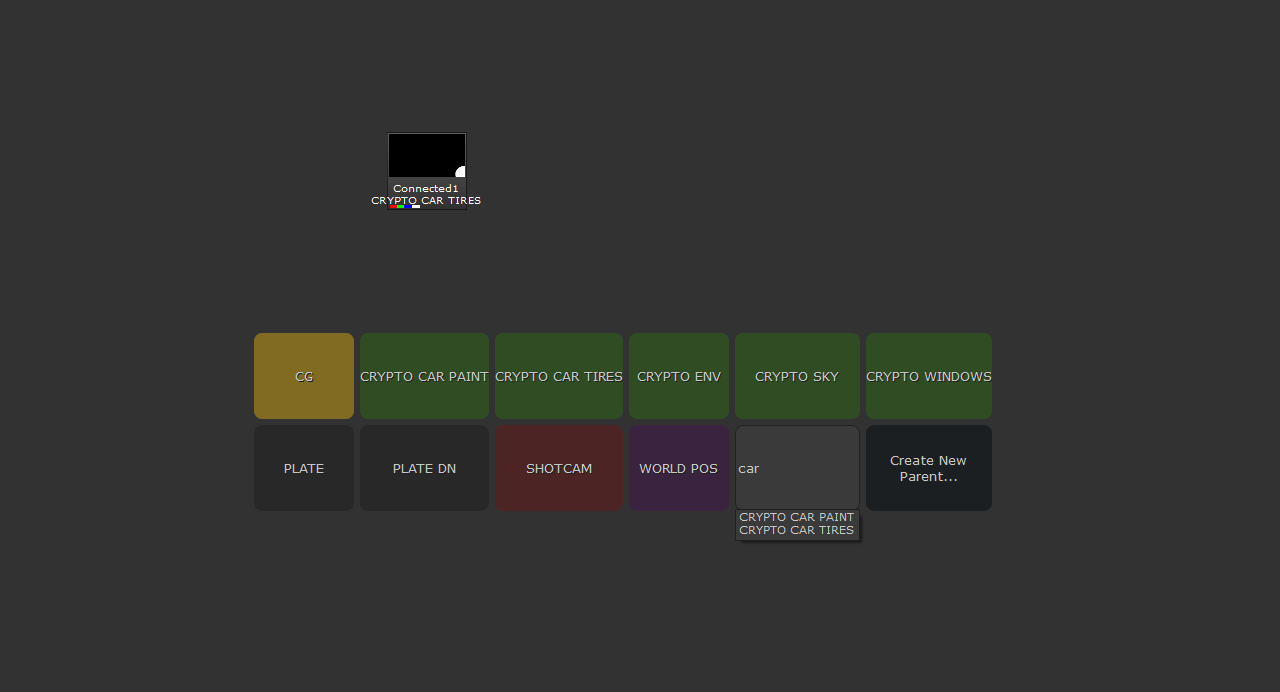
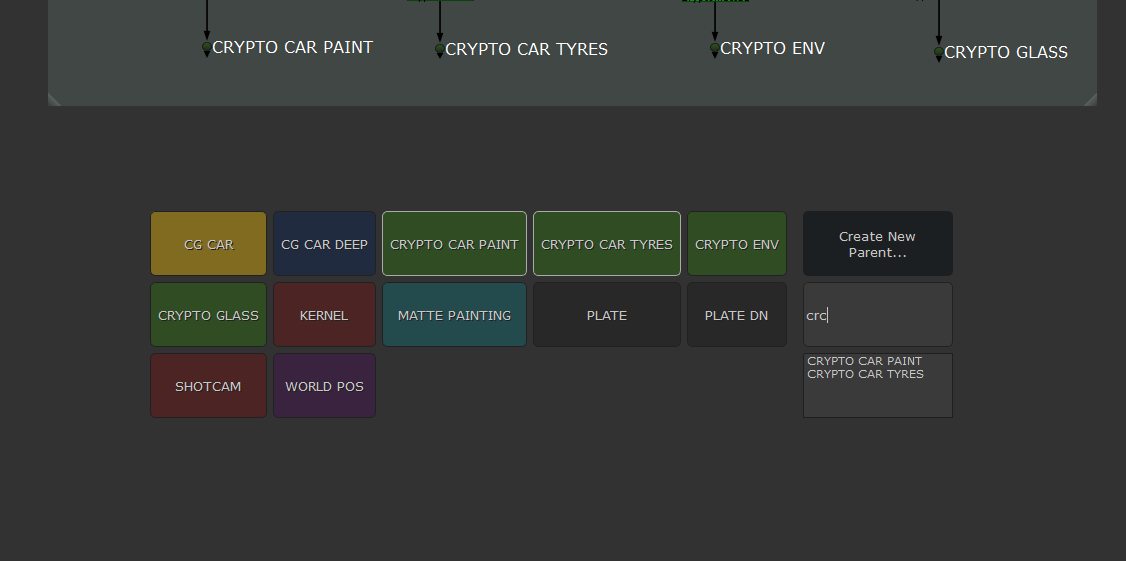
fast Parent creation, readme.md

diff --git a/labelConnector.py b/labelConnector.py
@@ -5,12 +5,14 @@ Big thanks also to Falk Hofmann
 
 Provides context-based UI helpers to setup and navigate Node Connections in Nuke.
 
-UI Shortcuts
+UI SHORTCUTS
 
 Click:          Create connection
 Shift-Click:    Jumps directly to Connector
 Alt-Click:      Opens Connector Settings (same like having the parent selected while hitting the shortcut)
 Ctrl:           Creates Parent (same like the UI button, just to make it faster accessible)
+
+SEE INCLUDED MENU.PY FOR DISABLING/ENABLING POSTAGESTAMPS :)
 
 """
 
@@ -96,6 +98,7 @@ class ConnectorButton(QtGuiWidgets.QPushButton):
 
     def enterEvent(self, event):
         """Change name with modifiers when mouse enters button."""
+
         keyModifier = QtGuiWidgets.QApplication.keyboardModifiers()
 
         if keyModifier == QtCore.Qt.ShiftModifier:
@@ -108,6 +111,7 @@ class ConnectorButton(QtGuiWidgets.QPushButton):
 
     def leaveEvent(self, event):
         """Change reset name when mouse leaves button."""
+
         self.setTextDefault()
         self.entered = False
 
@@ -410,6 +414,7 @@ class LabelConnector(QtGuiWidgets.QWidget):
 
     def keyPressEvent(self, event):
         """Catch key strokes, also to update highlighting of buttons."""
+
         if event.key() == QtCore.Qt.Key_Escape:
             self.close()
             return
@@ -478,6 +483,7 @@ class LabelConnector(QtGuiWidgets.QWidget):
 
     def clicked(self):
         """Clicking actions based on pressed Modifier Keys"""
+
         keyModifier = QtGuiWidgets.QApplication.keyboardModifiers()
 
         if keyModifier == QtCore.Qt.ShiftModifier:
@@ -500,16 +506,19 @@ class LabelConnector(QtGuiWidgets.QWidget):
 
     def clickedJump(self):
         """Click on Jump To Parent"""
+
         jumpKeepingPreviousSelection(self.node.input(0))
         self.close()
 
     def forceConnect(self):
         """Click on Re-Connect"""
+
         self.close()
         _forceShowUI(self.node, self.dots)
 
     def setColor(self):
         """Click on Color Button"""
+
         color = self.sender().interfaceColor
 
         if color == BUTTON_REGULAR_COLOR:
@@ -529,9 +538,10 @@ class LabelConnector(QtGuiWidgets.QWidget):
 
     def setupConnector(self):
         """Click on create or rename Parent"""
+
         self.close()
         if self.uiType == UIType.UI_DEFAULT:
-            if self.hasInputField:
+            if self.hasInputFieldAndText():
                 makeConnector(self.node, self.input.text())
 
             else:
@@ -540,13 +550,24 @@ class LabelConnector(QtGuiWidgets.QWidget):
         elif self.uiType == UIType.UI_CONNECTORONLY:
             _showNamingUI(self.node, self.node.knob('label').getValue())
 
+    def hasInputFieldAndText(self):
+        """Returns bool if current UI has a textinput and some userinput is provided"""
+
+        if self.hasInputField:
+            if self.input.text().strip(" "):
+                return True
+
+        return False
+
     def selectColor(self):
         """Click on Color Menu"""
+
         self.close()
         _showColorSelectionUI(self.selectedConnectors)
 
     def selectChildren(self):
         """Click on Show all Connections"""
+
         for i in nuke.selectedNodes():
             i.setSelected(False)
 
@@ -558,6 +579,7 @@ class LabelConnector(QtGuiWidgets.QWidget):
 
     def lineEnter(self):
         """After pressing Enter or Tab"""
+
         if not self.hasInputField:
             return
 
@@ -577,8 +599,8 @@ class LabelConnector(QtGuiWidgets.QWidget):
                     connectDot = dot
                     break
 
-            if not connectDot:
-                for dot in self.dots and self.input.filteredDotNameList:
+            if not connectDot and self.input.filteredDotNameList:
+                for dot in self.dots:
                     if self.input.filteredDotNameList[0] == dot.knob('label').getValue().upper():
                         connectDot = dot
                         break
@@ -609,6 +631,7 @@ class LabelConnector(QtGuiWidgets.QWidget):
 
     def focusNextPrevChild(self, next):
         """overriding this, to be able to use TAB as ENTER, like the Nuke Node Menu"""
+
         return False
 
 
@@ -761,9 +784,8 @@ def getAllConnectorDots():
 
 
 def getAllConnectorDotsLabels():
-    """
-    returns a list with all currently used labels
-    """
+    """returns a list with all currently used labels"""
+
     connectorDotsLabels = list()
 
     for dot in nuke.allNodes("Dot"):
@@ -774,9 +796,8 @@ def getAllConnectorDotsLabels():
 
 
 def isConnectingAndConnectedCorrectly(node):
-    """
-    returns if the node is connected to the correct parent.
-    """
+    """returns if the node is connected to the correct parent."""
+
     if not node.input(0):
         return False
     return node.knob('label').getValue() == node.input(0).knob('label').getValue() and isConnectingNode(node)
@@ -866,6 +887,9 @@ def makeConnector(node, text, textOld=""):
     """
     text = text.strip(" ").upper()
 
+    if not text:
+        return
+
     if text in getAllConnectorDotsLabels():
         nuke.message("Label already in use")
         return
@@ -882,7 +906,6 @@ def makeConnector(node, text, textOld=""):
                         x['label'].setValue(text)
 
             else:
-
                 setConnectorDot(node, text)
 
         else:  # attach new ConnectorDot Node to any Node

diff --git a/menu.py b/menu.py
@@ -4,12 +4,14 @@ import labelConnector
 
 editMenu = nuke.menu('Nuke').findItem('Edit')
 
-# change your shortcut here, default = 'A'. 
-# If you never want PostageStamps, but NoOps forever and ever, change to useNoOpNodesOnly=True
-editMenu.addCommand('LabelConnector', 'labelConnector.labelConnector(useNoOpNodesOnly=False)', 'A', shortcutContext=2)
+"""
+change your shortcut here, default is 'A'. 
+If you want PostageStamps instead of NoOp-Nodes when possible, change to useNoOpNodesOnly=False
+"""
+editMenu.addCommand('LabelConnector', 'labelConnector.labelConnector(useNoOpNodesOnly=True)', 'A', shortcutContext=2)
 
 """
-UI Shortcuts
+UI SHORTCUTS
 
 Click:          Create connection
 Shift-Click:    Jumps directly to Connector
@@ -17,7 +19,7 @@ Alt-Click:      Opens Connector Settings (same like having the parent selected w
 Ctrl:           Creates Parent (same like the UI button, just to make it faster accessible)
 
 
-Installation:
+INSTALLATION
 
 just add
 

diff --git a/README.md b/README.md
@@ -4,7 +4,7 @@ A Connector Tool for Nuke with a handy UI. Super light-weight and very easy to u
 Demo Video:
 https://youtu.be/KIwTWMKP2u0
 
-![Create Connection 02](./.pictures/LabelConnectorMain.png)
+![LabelConnector](./.pictures/LabelConnectorMain.png)
 
 
 ## Quick Manual
@@ -15,27 +15,80 @@ https://youtu.be/KIwTWMKP2u0
 - show possible Connections
 - jump to Parents or see all Children
 - colorize Parents to quickly identify them again
-- rename Parents, and alongside all Childrens
+- rename Parents, and alongside all connected Childrens
 
-**Shift-Click:** Jumps directly to Connector. \
-**Alt-Click:** Opens Connector Settings, same like having the parent selected.
+### Shortcuts
+In the UI you can
 
-Based on the Node Selection, it will (should :) ) provide the options you need. If not, or you are missing something, please feel free to always reach out, I'm happy about any kind of feedback. :)
+**SHIFT + CLICK:** Jumps directly to Connector.\
+**ALT + CLICK:** Opens Connector Settings, same like having a Parent selected.\
+**CTRL:** Creates parent (same like clicking the "Create Parent"-button)
 
----
+### Quick Tips / FAQ
+- after Copy-Pasting Nodes, they are all still selected. Hit the Shortcut right away to connect them all.
+- you can always select all Nodes in the DAG, and hit the Shortcut to connect everything that might got loose.
+- searching works like Nukes Node Menu, just hit some characters. E.g. searching "ce" will give you "CRYPTO ENV".
+- Arrow Up/Down navigates search results. Hitting Enter/Tab always selects the first one, no need to arrow down.
+- fastest way to create a new Parent is typing the desired name directly into the search bar. Hitting "Create Parent" (or CTRL) gives the new Parent right away.
+- Copy-Pasting and connecting works across multiple scripts, as long as the Parents have the same Label.
+- give your Parents some colors. It works with multiple Parents selected at once.
+- the given colors are just some quick-use presets. You can choose any color you want for your Parent, or built your own selection using the one and only amazing W_HotBox.
+- creating Parents with a Node selected will append the new Node. Dots will get converted.
+- creating Childrens with a Node selected will prepend a new NoOp/PostageStamp to make the connection.
+- label any Dots like you want, they won't get shown in the Label Connector. Parents have a Name starting "Connector.." to identify them.
+- the UI is context-based. Just give it a try, to hit the shortcut with Parents or Childrens selected, or use the Shortcuts mentioned above to get even faster.
+- avoid duplicate Parents with the same Label.
+- creates only NoOp Nodes by default, way better performance in big scripts :). If you want PostageStamps, easily change it in the included menu.py.
+
+## Installation
 To install the plugin, just add
 
 ```
-nuke.pluginAddPath('path_to_this_folder/LabelConnector')
+nuke.pluginAddPath('path_to_folder_containing/LabelConnector')
 ```
 to your menu.py in your Nuke User Folder.
 
 Thanks to Johannes Hezer for the base and Falk Hofmann for helping with the UI and code clean up.
 
+## Examples
 
-## Version
+![LabelConnector](./.pictures/LabelConnectorMain.png)\
+![LabelConnector Example 01](./.pictures/LabelConnector01.png)\
+Quickly get anything you need from anywhere, just use the search to find it faster. Every Match gets highlighted accordingly to guide your eyes. Hit Enter or Tab right away, or use the arrow keys to select another search result.
+<br>
+<br>
 
-- v1.5: Shift-Click jumps. Alt-Click modifies Parent. Highlighting search results.  
+![LabelConnector Example 02](./.pictures/LabelConnector02.png)\
+Create yourself snippets, that incorporate the Children. Copy-Paste them around, even to other Scripts.
+<br>
+<br>
+
+![LabelConnector Example 03](./.pictures/LabelConnector03.png)\
+Colorize Parents quickly like you want.
+<br>
+<br>
+
+![LabelConnector Example 04](./.pictures/LabelConnector04.png)\
+SHIFT+Click lets you navigate the DAG super fast. ALT+Click lets you e.g. colorize directly as well.
+<br>
+<br>
+
+![LabelConnector Example 05](./.pictures/LabelConnector05.png)\
+You can also jump from any Children.
+<br>
+<br>
+
+![LabelConnector Example 06](./.pictures/LabelConnector06.png)\
+Anything changed, just rename. It renames every Child accordingly.
+<br>
+<br>
+
+![LabelConnector Example 07](./.pictures/LabelConnector07.png)\
+Having a Node selected will prepend a Children to build the connection. Just search for it, if it is on top, hit Enter/Tab. 
+
+## Version History
+
+- v1.5: SHIFT+CLICK jumps. ALT+CLICK modifies Parent. CTRL creates New Parent. Search results get highlighted. More flexible search results, now with single character matching. NoOp-Nodes are default now.
 
 - v1.4: Big overhaul, reducing to one shortcut only while adding more functionality directly to the tool, like Colorization and Navigation. 
 
@@ -46,15 +99,3 @@ Thanks to Johannes Hezer for the base and Falk Hofmann for helping with the UI a
 - v1.1: Default shortcuts are now way easier to reach. Less hand movement, more happy comping! =)
 
 - v1.0: initial release
-
-## Examples
-
-
-
-
-
-![Create Connection 02](./.pictures/LabelConnector01.jpg)
-![Create Connection 02](./.pictures/LabelConnector011.jpg)
-![Create Connection 02](./.pictures/LabelConnector02.jpg)
-![Create Connection 02](./.pictures/LabelConnector03.jpg)
-![Create Connection 02](./.pictures/LabelConnector04.jpg)
